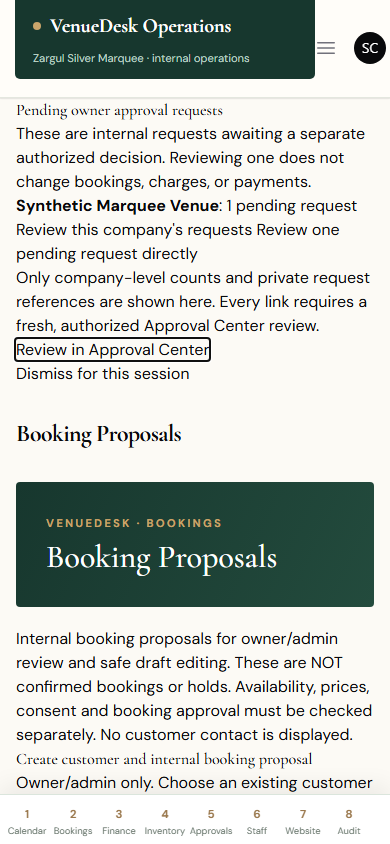
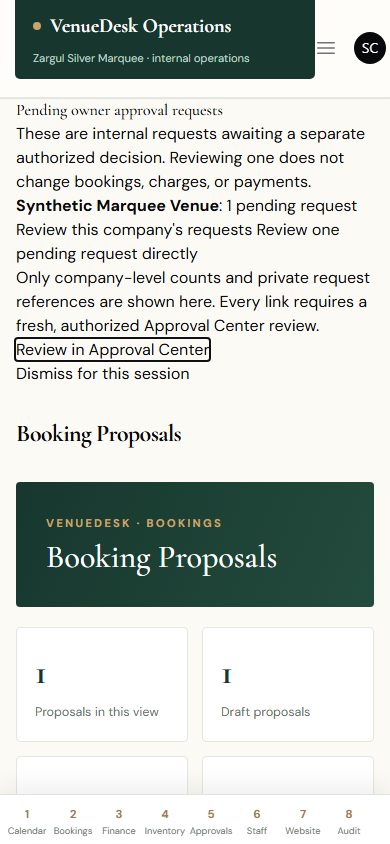
feat(ui): add operational summaries to VenueDesk module bodies

Changed region(s): [[0.0308, 0.7393, 0.9538, 0.955]]

diff --git a/backend/resources/views/filament/pages/booking-proposals.blade.php b/backend/resources/views/filament/pages/booking-proposals.blade.php
@@ -1,6 +1,17 @@
 <x-filament-panels::page>
     <div class="space-y-6">
         <x-venuedesk.header eyebrow="VenueDesk · Bookings" title="Booking Proposals" />
+        @php
+            $proposalStatusCounts = collect($entries)->countBy(fn ($entry) => (string) ($entry['status'] ?? 'unknown'));
+            $proposalDrafts = (int) ($proposalStatusCounts['draft'] ?? 0);
+            $proposalReview = (int) ($proposalStatusCounts['submitted'] ?? 0);
+        @endphp
+        <div class="vd-metrics" aria-label="Booking proposal summary">
+            <div class="vd-metric"><b>{{ count($entries) }}</b><span>Proposals in this view</span></div>
+            <div class="vd-metric"><b>{{ $proposalDrafts }}</b><span>Draft proposals</span></div>
+            <div class="vd-metric"><b>{{ $proposalReview }}</b><span>Awaiting review</span></div>
+            <div class="vd-metric"><b>{{ $offset > 0 ? $offset : 0 }}</b><span>Records before this page</span></div>
+        </div>
         <p class="text-sm text-gray-600 dark:text-gray-300">
             Internal booking proposals for owner/admin review and safe draft editing. These are NOT confirmed bookings or holds.
             Availability, prices, consent and booking approval must be checked separately. No customer contact is displayed.

diff --git a/backend/resources/views/filament/pages/approval-center.blade.php b/backend/resources/views/filament/pages/approval-center.blade.php
@@ -1,6 +1,12 @@
 <x-filament-panels::page>
     <div class="space-y-6">
         <x-venuedesk.header eyebrow="VenueDesk · Approvals" title="Approval Center" />
+        <div class="vd-metrics" aria-label="Approval status summary">
+            <div class="vd-metric"><b>{{ $statusCounts['pending'] ?? 0 }}</b><span>Pending decisions</span></div>
+            <div class="vd-metric"><b>{{ $statusCounts['approved'] ?? 0 }}</b><span>Approved</span></div>
+            <div class="vd-metric"><b>{{ $statusCounts['rejected'] ?? 0 }}</b><span>Rejected</span></div>
+            <div class="vd-metric"><b>{{ count($entries) }}</b><span>Requests in this view</span></div>
+        </div>
         <p class="text-sm text-gray-600 dark:text-gray-300">
             Internal, company-scoped exception requests. A decision does not change a booking, invoice,
             price, payment or refund. No customer contact or Telegram message is sent from this page.

diff --git a/backend/resources/views/filament/pages/staff-management.blade.php b/backend/resources/views/filament/pages/staff-management.blade.php
@@ -1,6 +1,11 @@
 <x-filament-panels::page>
     <div class="space-y-6">
         <x-venuedesk.header eyebrow="VenueDesk · Staff" title="Staff & Access" />
+        <div class="vd-metrics" aria-label="Staff and access summary">
+            <div class="vd-metric"><b>{{ count($invitations) }}</b><span>Invitations in this view</span></div>
+            <div class="vd-metric"><b>{{ count($halls) }}</b><span>Authorized halls</span></div>
+            <div class="vd-metric"><b>{{ count($hallIds) }}</b><span>Selected halls</span></div>
+        </div>
         <p class="text-sm">Staff access requires acceptance, email verification and MFA. Invitations never create a default password.</p>
 
         @if ($message)
